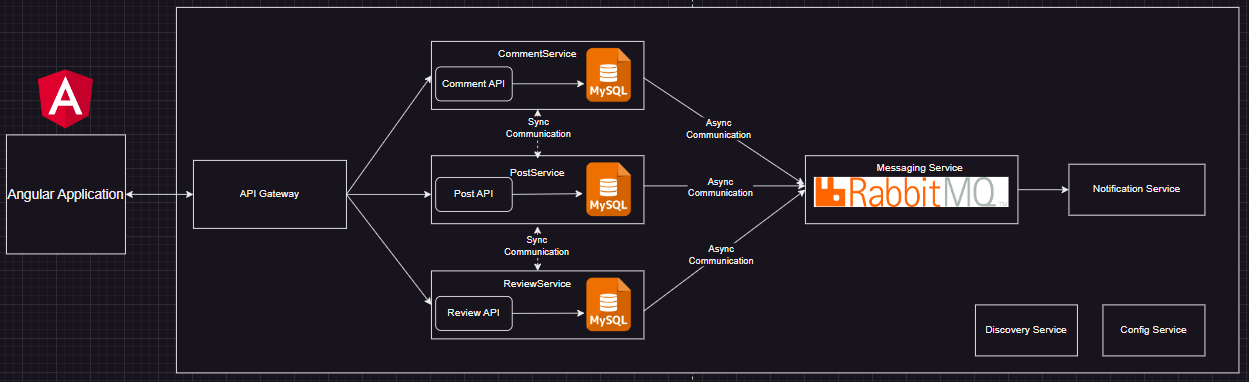
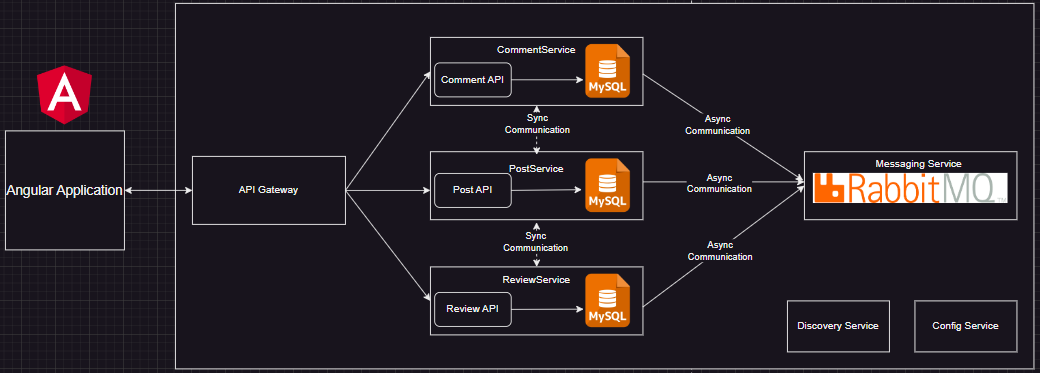
update architecture.md

diff --git a/architecture/architecture.md b/architecture/architecture.md
@@ -33,17 +33,25 @@ De CommentService is bedoeld voor het beheer van reacties op posts.
 - **US11**: Andere gebruikers kunnen reacties lezen, zodat zij de meningen of vragen van collega's kunnen zien.
 - **US12**: Gebruikers kunnen hun eigen reacties bewerken of verwijderen via de CommentService.
 
+## Voorbeeld van synchrone communicatie tussen de PostService en CommentService:
+Stap 1: Het aanvragen van een post
+Een gebruiker vraagt via de Angular-applicatie om een specifieke post op te halen. De PostService ontvangt het verzoek en haalt de benodigde gegevens op uit de database.
+
+Stap 2: Reacties op de post opvragen
+Terwijl de PostService de gegevens van de post terugstuurt naar de Angular-applicatie, kan de CommentService synchrone communicatie gebruiken om reacties voor die post op te halen. De PostService maakt een HTTP-verzoek naar de CommentService om de reacties voor de specifieke post te verkrijgen.
+
+Stap 3: Wachten op een antwoord
+De CommentService verwerkt het verzoek en stuurt de reacties voor die post terug naar de PostService. De PostService wacht op deze gegevens van de CommentService voordat het het volledige antwoord met zowel de post als de reacties naar de Angular-applicatie terugstuurt.
+
+Stap 4: Terugsturen naar de frontend
+Zodra de PostService zowel de gegevens van de post als de reacties heeft ontvangen, stuurt deze het gecombineerde resultaat (de post met de reacties) terug naar de Angular-applicatie.
+
 ## 6. Messaging Service (RabbitMQ)
 De Messaging Service (RabbitMQ) zorgt voor asynchrone communicatie tussen de services. Dit maakt het mogelijk om notificaties en meldingen op een efficiënte manier te verwerken, zonder dat de services synchroon hoeven te communiceren.
 
 - **US8**: Bij goedkeuring of afwijzing van een post stuurt de ReviewService een bericht naar RabbitMQ. Dit bericht wordt dan verwerkt door de Notification Service, zodat de redacteur op de hoogte wordt gebracht.
 
-## 7. Notification Service
-De Notification Service ontvangt berichten via RabbitMQ en stuurt meldingen naar de juiste gebruikers.
-
-- **US8**: Deze service zorgt ervoor dat de redacteur meldingen ontvangt over de goedkeuring of afwijzing van posts, zodat ze weten of een post gepubliceerd kan worden of herzien moet worden.
-
-## 8. Discovery Service en Config Service
+## 7. Discovery Service en Config Service
 De Discovery Service en Config Service ondersteunen de microservices-architectuur:
 
 - De Discovery Service helpt bij het vinden van services in het netwerk, wat belangrijk is voor het opschalen en dynamisch verbinden van services.
